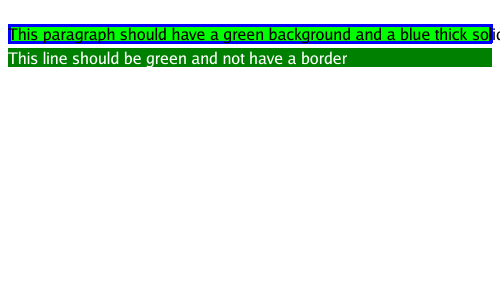
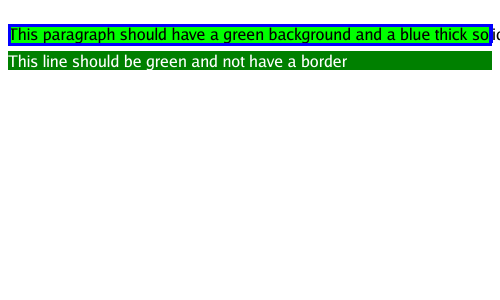
layering: Dont draw onto a single sprite but rather use a draw stack

Changed region(s): [[0.0, 0.09, 0.99, 0.24]]

diff --git a/html.go b/html.go
@@ -29,6 +29,7 @@ func RenderHTML(htmlReader io.Reader, dims intgeom.Point2) (*render.Sprite, erro
 // the given dimensions.
 func ParseAndRenderHTML(htmlReader io.Reader, dims intgeom.Point2) (*ParsedNode, *render.Sprite, error) {
 
+	toDrawStack := render.NewDrawStack(render.NewDynamicHeap())
 	// TODO: respect the width from css
 	sp := render.NewEmptySprite(0, 0, dims.X(), dims.Y())
 
@@ -63,7 +64,11 @@ func ParseAndRenderHTML(htmlReader io.Reader, dims intgeom.Point2) (*ParsedNode,
 		Max: floatgeom.Point2{float64(dims.X()), float64(dims.Y())}.Sub(bodyMargin),
 	}
 
-	drawNode(parsed.FirstChild, sp, zone)
+	addNode(parsed.FirstChild, sp, toDrawStack, zone)
+
+	// slap it all onto the background
+	toDrawStack.PreDraw()
+	toDrawStack.DrawToScreen(sp, &intgeom.Point2{0, 0}, dims.X(), dims.Y())
 
 	return parsed, sp, err
 }
@@ -173,6 +178,8 @@ func parseLength(l string) (float64, bool) {
 	return 0, false
 }
 
+const maxSize = 3
+
 // parseBorderAttributes and determine the drawing considerations for a given border line
 // returns the computed size, color, style and optionally an error in the compute
 func parseBorderAttributes(direction string, styles map[string]string) (int, color.Color, string, error) {
@@ -221,6 +228,7 @@ func parseBorderAttributes(direction string, styles map[string]string) (int, col
 	}
 
 	//  The interpretation of the first three values depends on the user agent
+
 	size := 0
 	switch width {
 	case "thin":
@@ -228,7 +236,7 @@ func parseBorderAttributes(direction string, styles map[string]string) (int, col
 	case "medium":
 		size = 2
 	case "thick":
-		size = 3
+		size = maxSize
 	case "": // valid just not set so make size 0
 		size = 0
 	default:
@@ -366,12 +374,16 @@ func parseNodeDims(node *ParsedNode, drawzone floatgeom.Rect2) floatgeom.Rect2 {
 	return floatgeom.NewRect2WH(0, 0, w, h)
 }
 
-func drawboxModel(node *ParsedNode, sp *render.Sprite, drawzone floatgeom.Rect2, noTallerThan, noWiderThan float64) {
-	drawBackground(node, sp, drawzone, noTallerThan, noWiderThan)
-	drawBorder(node, sp, drawzone, noTallerThan, noWiderThan)
+func drawboxModel(node *ParsedNode, stack *render.DrawStack, drawzone floatgeom.Rect2, noTallerThan, noWiderThan float64) float64 {
+	// TODO: Margin
+	lateOffset := drawBorder(node, stack, drawzone, noTallerThan, noWiderThan)
+
+	// TODO: padding
+	drawBackground(node, stack, drawzone, noTallerThan, noWiderThan)
+	return lateOffset[1]
 }
 
-func drawBackground(node *ParsedNode, sp *render.Sprite, drawzone floatgeom.Rect2, noTallerThan, noWiderThan float64) floatgeom.Point2 {
+func drawBackground(node *ParsedNode, stack *render.DrawStack, drawzone floatgeom.Rect2, noTallerThan, noWiderThan float64) floatgeom.Point2 {
 	bkg, ok := node.Style["background"]
 	if !ok {
 		bkg, ok = node.Style["background-color"]
@@ -391,13 +403,15 @@ func drawBackground(node *ParsedNode, sp *render.Sprite, drawzone floatgeom.Rect
 		parsedColor = applyOpacity(parsedColor, node.Style["opacity"])
 		bx := render.NewColorBox(int(bkgDim.W()), int(bkgDim.H()), parsedColor)
 		bds := offsetBoundsByDrawzone(bx, drawzone)
-		draw.Draw(sp.GetRGBA(), bds, bx.GetRGBA(), image.Point{}, draw.Over)
+		bx.SetPos(drawzone.Min.X(), drawzone.Min.Y())
+		stack.Draw(bx, 0, 1, 0)
+		// draw.Draw(sp.GetRGBA(), bds, bx.GetRGBA(), image.Point{}, draw.Over)
 		return floatgeom.Point2{float64(bds.Dx()), float64(bds.Dy())}
 	}
 	return floatgeom.Point2{}
 }
 
-func drawBorder(node *ParsedNode, sp *render.Sprite, drawzone floatgeom.Rect2, noTallerThan, noWiderThan float64) {
+func drawBorder(node *ParsedNode, stack *render.DrawStack, drawzone floatgeom.Rect2, noTallerThan, noWiderThan float64) floatgeom.Point2 {
 
 	bkgDim := parseNodeDims(node, drawzone)
 	if bkgDim.H() > noTallerThan {
@@ -406,29 +420,29 @@ func drawBorder(node *ParsedNode, sp *render.Sprite, drawzone floatgeom.Rect2, n
 	if bkgDim.W() > noWiderThan {
 		bkgDim.Max[0] = bkgDim.Min[0] + noWiderThan
 	}
-
-	top := int(bkgDim.Min.Y() + drawzone.Min.Y())
-	bottom := int(bkgDim.Max.Y() + drawzone.Min.Y())
-	left := int(bkgDim.Min.X() + drawzone.Min.X())
-	right := int(bkgDim.Max.X() + drawzone.Min.X())
+	minOffset := floatgeom.Point2{}
+	offset := floatgeom.Point2{}
+	box := render.NewColorBox(int(bkgDim.W()+maxSize*2), int(bkgDim.H()+maxSize*2), color.RGBA{0, 0, 0, 0})
 	// remove space for border and the populate the border element
 	// TODO: actually do this per direction
 	width, brdColor, style, err := parseBorderAttributes("top", node.Style)
 	if err != nil {
 		width = 0
 		// TODO: err handling?
-		fmt.Println("encountered a bad border", err)
+		fmt.Println("encountered a bad top border", err)
 	}
 	if width > 0 {
 		switch style {
 		case "hidden", "none":
 		case "solid":
-			for x := int(drawzone.Min.X()); x < int(drawzone.Max.X()); x++ {
-				for y := int(drawzone.Min.Y()); y < int(drawzone.Min.Y())+width; y++ {
-					sp.Set(x, y, brdColor)
+			for x := 0; x < int(bkgDim.W()); x++ {
+				for y := 0; y < width; y++ {
+					box.Set(x, y, brdColor)
 				}
 			}
+			minOffset[1] = float64(width)
 		}
+
 	}
 	width, brdColor, style, err = parseBorderAttributes("bottom", node.Style)
 	if err != nil {
@@ -439,51 +453,59 @@ func drawBorder(node *ParsedNode, sp *render.Sprite, drawzone floatgeom.Rect2, n
 		switch style {
 		case "hidden", "none":
 		case "solid":
-			for x := int(drawzone.Min.X()); x < int(drawzone.Max.X()); x++ {
-				for y := bottom; y > bottom-width; y-- {
-					sp.Set(x, y, brdColor)
+			for x := 0; x < int(bkgDim.W()); x++ {
+				for y := int(bkgDim.Max.Y()); y < int(bkgDim.Max.Y())+width; y++ {
+					box.Set(x, y, brdColor)
 				}
 			}
+			offset[1] = float64(width)
 		}
+
 	}
 	width, brdColor, style, err = parseBorderAttributes("left", node.Style)
 	if err != nil {
 		width = 0
-		fmt.Println("encountered a bad bottom border", err)
+		fmt.Println("encountered a bad left border", err)
 	}
 	if width > 0 {
 		switch style {
 		case "hidden", "none":
 		case "solid":
-			for x := left; x < left+width; x++ {
-				for y := top; y < bottom; y++ {
-					sp.Set(x, y, brdColor)
+			for x := 0; x < width; x++ {
+				for y := 0; y < int(bkgDim.Max.Y()); y++ {
+					box.Set(x, y, brdColor)
 				}
 			}
-
+			minOffset[0] = float64(width)
 		}
 	}
 	width, brdColor, style, err = parseBorderAttributes("right", node.Style)
 	if err != nil {
 		width = 0
-		fmt.Println("encountered a bad bottom border", err)
+		fmt.Println("encountered a bad right border", err)
 	}
 	if width > 0 {
 		switch style {
 		case "hidden", "none":
 		case "solid":
-			for x := right - width; x <= right; x++ {
-				for y := top; y < bottom; y++ {
-					sp.Set(x, y, brdColor)
+			for x := int(bkgDim.Max.X()) - width; x <= int(bkgDim.Max.X()); x++ {
+				for y := 0; y < int(bkgDim.Max.Y()); y++ {
+					box.Set(x, y, brdColor)
 				}
 			}
-
+			offset[0] = float64(width)
 		}
-	}
 
+	}
+	box.SetPos(drawzone.Min.X(), drawzone.Min.Y())
+	stack.Draw(box, 2)
+
+	// offset drawzone by the portions that matter for now
+	drawzone.Min.Add(minOffset)
+	return offset
 }
 
-func drawNode(node *ParsedNode, sp *render.Sprite, drawzone floatgeom.Rect2) (heightConsumed float64) {
+func addNode(node *ParsedNode, sp *render.Sprite, stack *render.DrawStack, drawzone floatgeom.Rect2) (heightConsumed float64) {
 	if node == nil {
 		return 0
 	}
@@ -505,33 +527,39 @@ func drawNode(node *ParsedNode, sp *render.Sprite, drawzone floatgeom.Rect2) (he
 		textVBuffer := textSize / 5 // todo: where is this from?
 		// TODO: spacing around p and div is incorrect
 		// TODO: div and p are really similar and yet subtly different, why?
-		drawBackground(node, sp, drawzone, textSize+textVBuffer, math.MaxFloat64)
+		drawBackground(node, stack, drawzone, textSize+textVBuffer, math.MaxFloat64)
 
 		// TODO: this is not right; children are drawn below already;
 		// how do we know whether a node is text content?
 		if node.FirstChild != nil && node.FirstChild.FirstChild == nil {
-			text := node.FirstChild.Raw.Data
-			rText, _, bds := formatTextAsSprite(node, drawzone, 16.0, text)
-
-			draw.Draw(sp.GetRGBA(), bds, rText.GetRGBA(), image.Point{}, draw.Over)
-
-			// Not sure if this is needed but definitely isnt if there is no text. see hcj02
 			if node.FirstChild.Raw.Type == html.TextNode {
+				text := node.FirstChild.Raw.Data
+				rText, _, bds := formatTextAsSprite(node, drawzone, 16.0, text)
+
+				setIntPos(rText, bds)
+				stack.Draw(rText, 1)
+
+				// Not sure if this is needed but definitely isnt if there is no text. see hcj02
+
 				drawzone.Min = drawzone.Min.Add(floatgeom.Point2{0, textVBuffer + float64(bds.Dy())})
 			}
 		}
 	case "span", "address", "h1", "h2", "h3", "h4", "h5", "h6":
-		if node.FirstChild != nil {
+		if node.FirstChild != nil && node.FirstChild.Raw.Type == html.TextNode {
 			text := node.FirstChild.Raw.Data
+
 			// This is not correct?
 			if !unicode.IsSpace(rune(text[len(text)-1])) {
 				text += " "
 			}
 			rText, textSize, bds := formatTextAsSprite(node, drawzone, 16.0, text)
 			textVBuffer := textSize / 5 // todo: where is this from?
-			// todo: is this the background of p or the background of the text content child?
-			drawBackground(node, sp, drawzone, textSize+textVBuffer, math.MaxFloat64)
-			draw.Draw(sp.GetRGBA(), bds, rText.GetRGBA(), image.Point{}, draw.Over)
+			// todo: is this the background of p or the background of the text content child? // its text child :(
+
+			drawBackground(node, stack, drawzone, textSize+textVBuffer, math.MaxFloat64)
+
+			setIntPos(rText, bds)
+			stack.Draw(rText, 1)
 			drawzone.Min = drawzone.Min.Add(floatgeom.Point2{float64(bds.Dx()), 0})
 		}
 	case "p":
@@ -552,17 +580,20 @@ func drawNode(node *ParsedNode, sp *render.Sprite, drawzone floatgeom.Rect2) (he
 			nextChild = nextChild.NextSibling
 		}
 		var textVBuffer float64
+		borderYOff := 0.0
 		for i, text := range texts {
 			rText, textSize, bds := formatTextAsSprite(node, drawzone, 16.0, text)
 			textVBuffer = textSize / 5 // todo: where is this from?
 			// todo: is this the background of p or the background of the text content child?
 			if i == 0 {
-				drawboxModel(node, sp, drawzone, (textSize+textVBuffer)*float64(len(texts)), math.MaxFloat64)
+				borderYOff = drawboxModel(node, stack, drawzone, (textSize+textVBuffer)*float64(len(texts)), math.MaxFloat64)
 			}
-			draw.Draw(sp.GetRGBA(), bds, rText.GetRGBA(), image.Point{}, draw.Over)
+			setIntPos(rText, bds)
+			stack.Draw(rText, 1)
 			drawzone.Min = drawzone.Min.Add(floatgeom.Point2{0, float64(bds.Dy())})
 		}
 		drawzone.Min = drawzone.Min.Add(floatgeom.Point2{0, textVBuffer})
+		drawzone.Min = drawzone.Min.Add(floatgeom.Point2{0, borderYOff})
 
 	case "img":
 		for _, atr := range node.Raw.Attr {
@@ -580,6 +611,7 @@ func drawNode(node *ParsedNode, sp *render.Sprite, drawzone floatgeom.Rect2) (he
 				}
 				r.Close()
 				bds := offsetBoundsByDrawzone(img, drawzone)
+
 				draw.Draw(sp.GetRGBA(), bds, img, image.Point{}, draw.Over)
 				drawzone.Min = drawzone.Min.Add(floatgeom.Point2{0, float64(bds.Dy())})
 			}
@@ -613,11 +645,12 @@ func drawNode(node *ParsedNode, sp *render.Sprite, drawzone floatgeom.Rect2) (he
 
 				// todo: is this the background of ul or the background of the text content child?
 				// TODO: this background does not extend down to the bottom of letters like 'g' and 'y'
-				drawBackground(node, sp, drawzone, textSize+textVBuffer, math.MaxFloat64)
+				drawBackground(node, stack, drawzone, textSize+textVBuffer, math.MaxFloat64)
 
 				// draw text
 				rText, _, bds := formatTextAsSprite(node, drawzone, 16.0, text)
-				draw.Draw(sp.GetRGBA(), bds, rText.GetRGBA(), image.Point{}, draw.Over)
+				rText.SetPos(drawzone.Min.X(), drawzone.Min.Y())
+				stack.Draw(rText, 1)
 				drawzone.Min = drawzone.Min.Add(floatgeom.Point2{-bulletGap, textVBuffer + float64(bds.Dy())})
 			}
 		}
@@ -675,13 +708,15 @@ func drawNode(node *ParsedNode, sp *render.Sprite, drawzone floatgeom.Rect2) (he
 						w = parsed
 					}
 				}
-				bkgDiff := drawBackground(col, sp, drawzone, textSize+textVBuffer, w)
+				bkgDiff := drawBackground(col, stack, drawzone, textSize+textVBuffer, w)
 
 				bds.Min.X = int(drawzone.Min.X())
 				bds.Min.Y = int(drawzone.Min.Y())
 				bds.Max.X += int(drawzone.Min.X())
 				bds.Max.Y += int(drawzone.Min.Y())
-				draw.Draw(sp.GetRGBA(), bds, rText.GetRGBA(), image.Point{}, draw.Over)
+
+				rText.SetPos(drawzone.Min.X(), drawzone.Min.Y())
+				stack.Draw(rText, 1)
 				rowWidth += bkgDiff.X()
 				drawzone.Min = drawzone.Min.Add(floatgeom.Point2{bkgDiff.X(), 0})
 				col = col.NextSibling
@@ -698,10 +733,11 @@ func drawNode(node *ParsedNode, sp *render.Sprite, drawzone floatgeom.Rect2) (he
 		}
 	}
 	drawzone.Min = drawzone.Min.Add(childDrawzoneModifier)
-	childrenHeight := drawNode(node.FirstChild, sp, drawzone)
+	childrenHeight := addNode(node.FirstChild, sp, stack, drawzone)
 	drawzone.Min = drawzone.Min.Sub(childDrawzoneModifier)
 	drawzone.Min = drawzone.Min.Add(floatgeom.Point2{0, float64(childrenHeight)})
-	siblingsHeight := drawNode(node.NextSibling, sp, drawzone)
+
+	siblingsHeight := addNode(node.NextSibling, sp, stack, drawzone)
 	drawzone.Min = drawzone.Min.Add(floatgeom.Point2{0, float64(siblingsHeight)})
 	return drawzone.Min.Y() - startHeight
 }
@@ -787,4 +823,9 @@ type hasBounds interface {
 	// Bounds returns the domain for which At can return non-zero color.
 	// The bounds do not necessarily contain the point (0, 0).
 	Bounds() image.Rectangle
+}
+
+// TODO: Make the image rectangle be a float64 bounds type thing so we dont do this
+func setIntPos(s *render.Sprite, bds image.Rectangle) {
+	s.SetPos(float64(bds.Min.X), float64(bds.Min.Y))
 }
